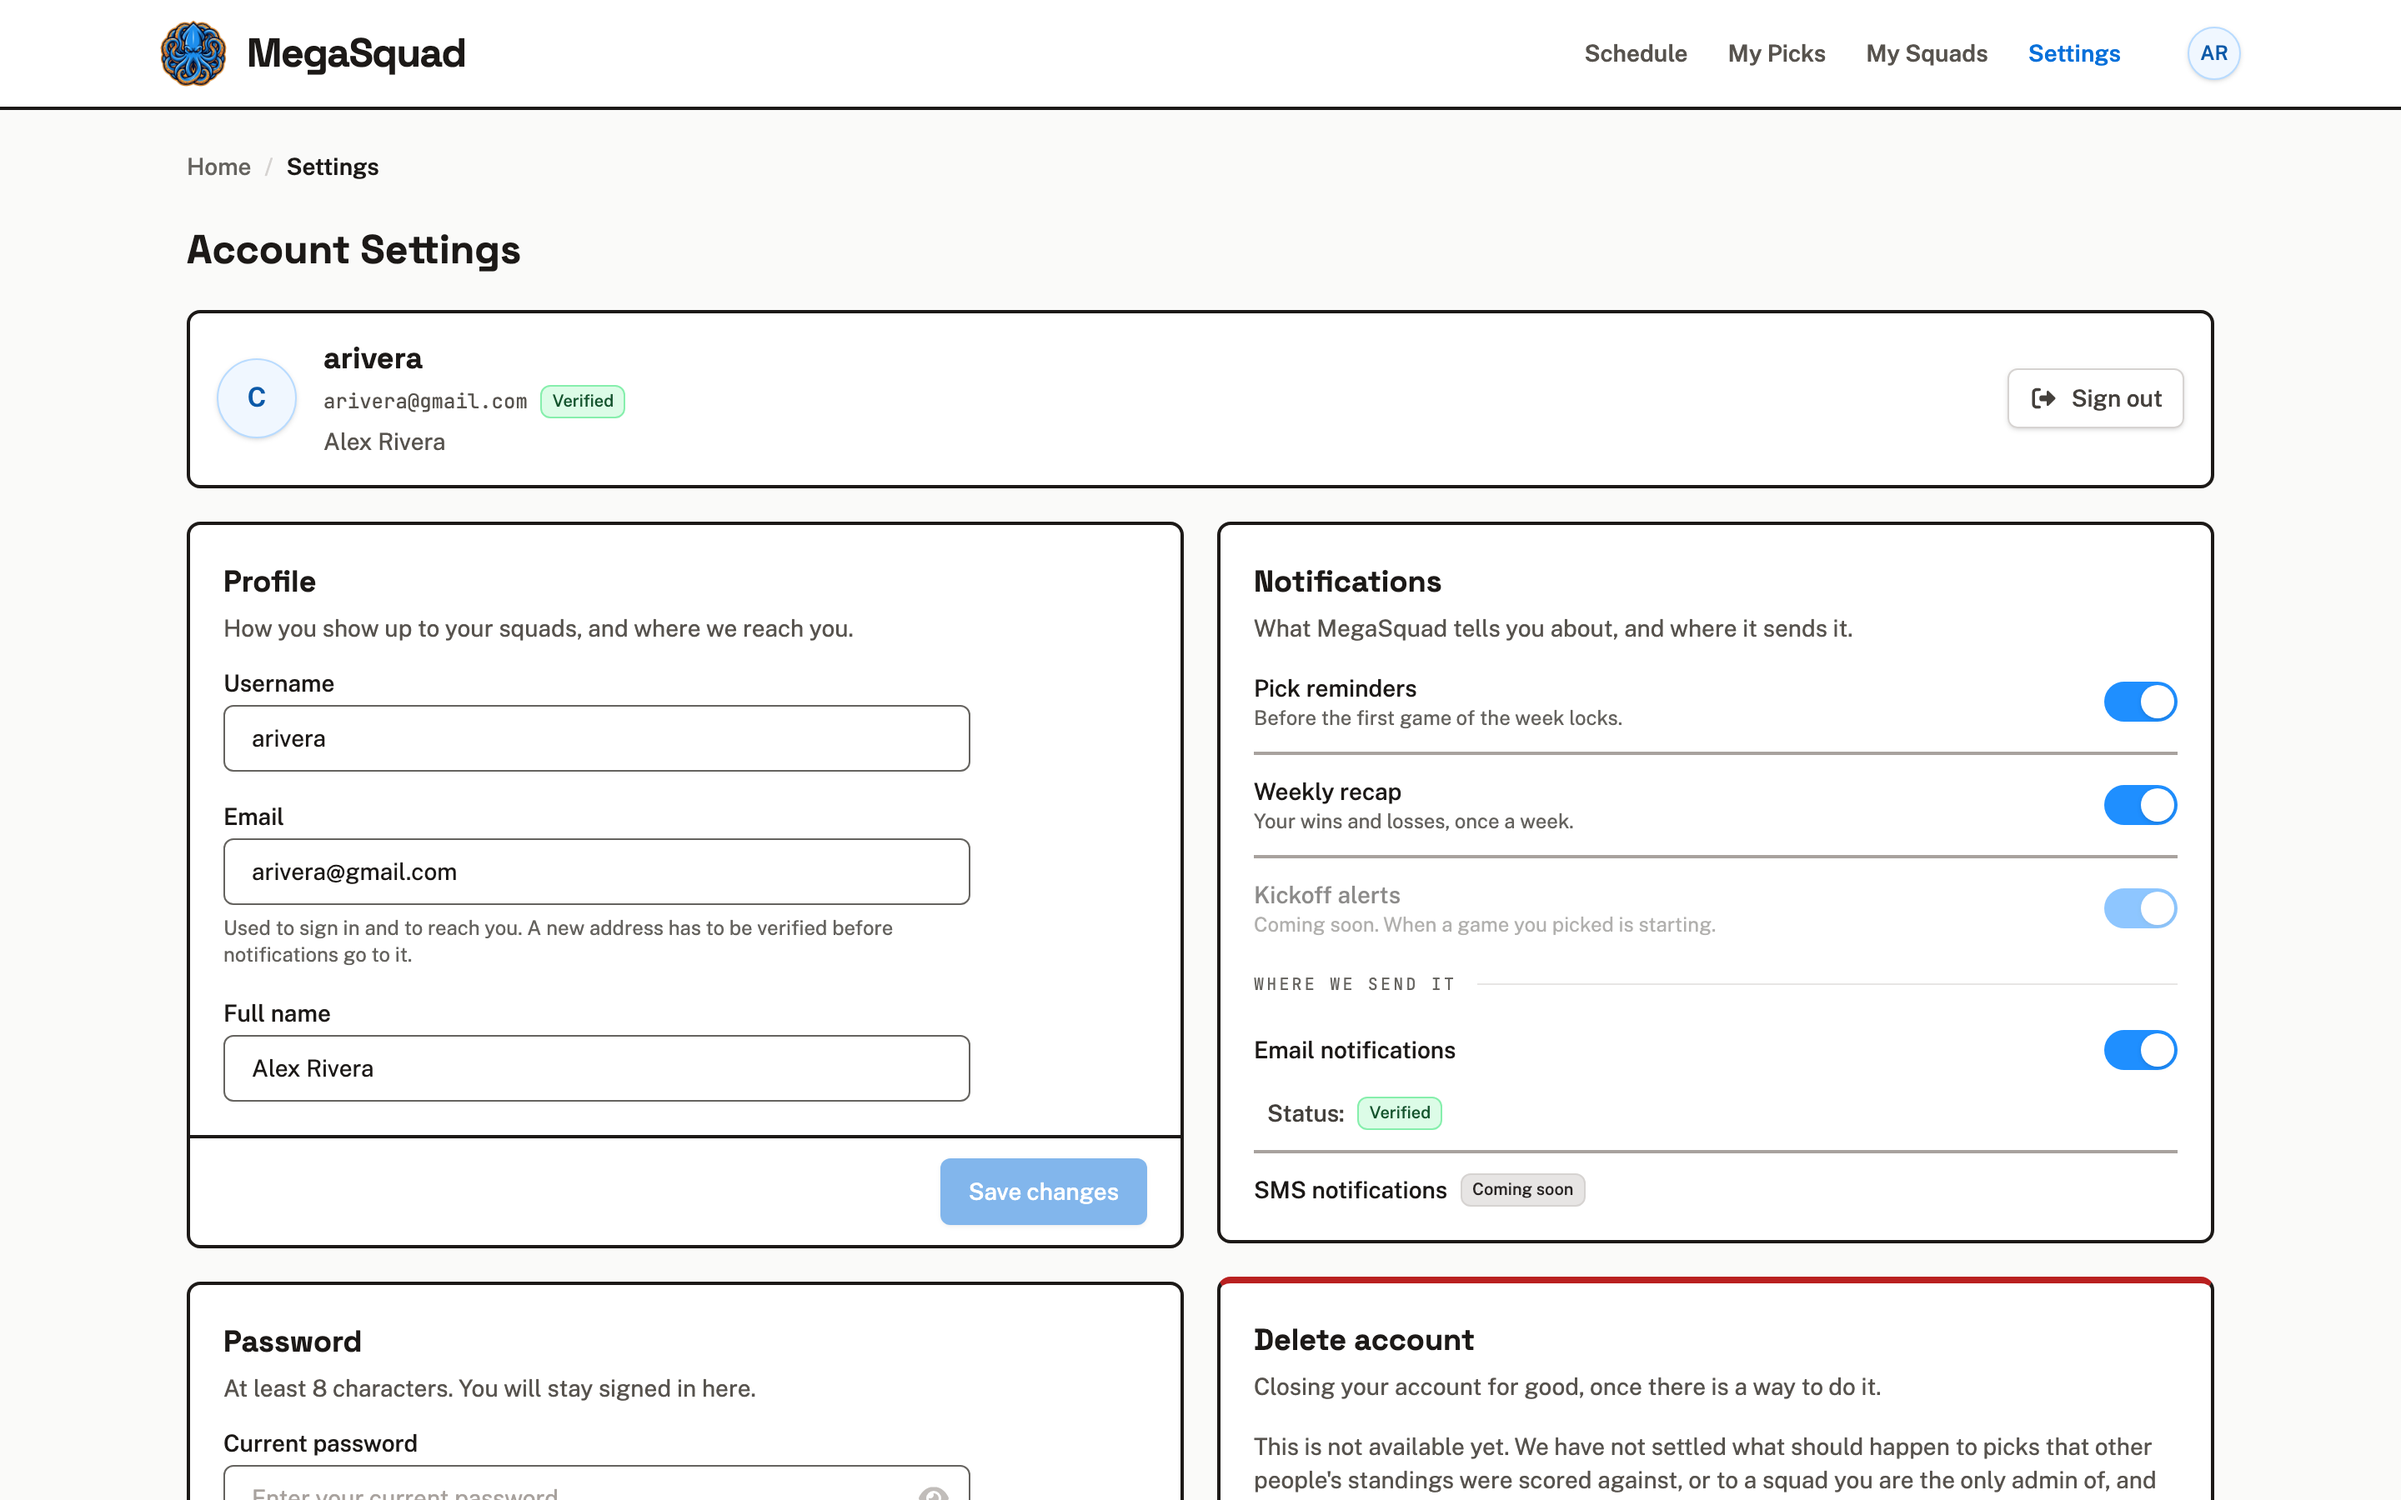
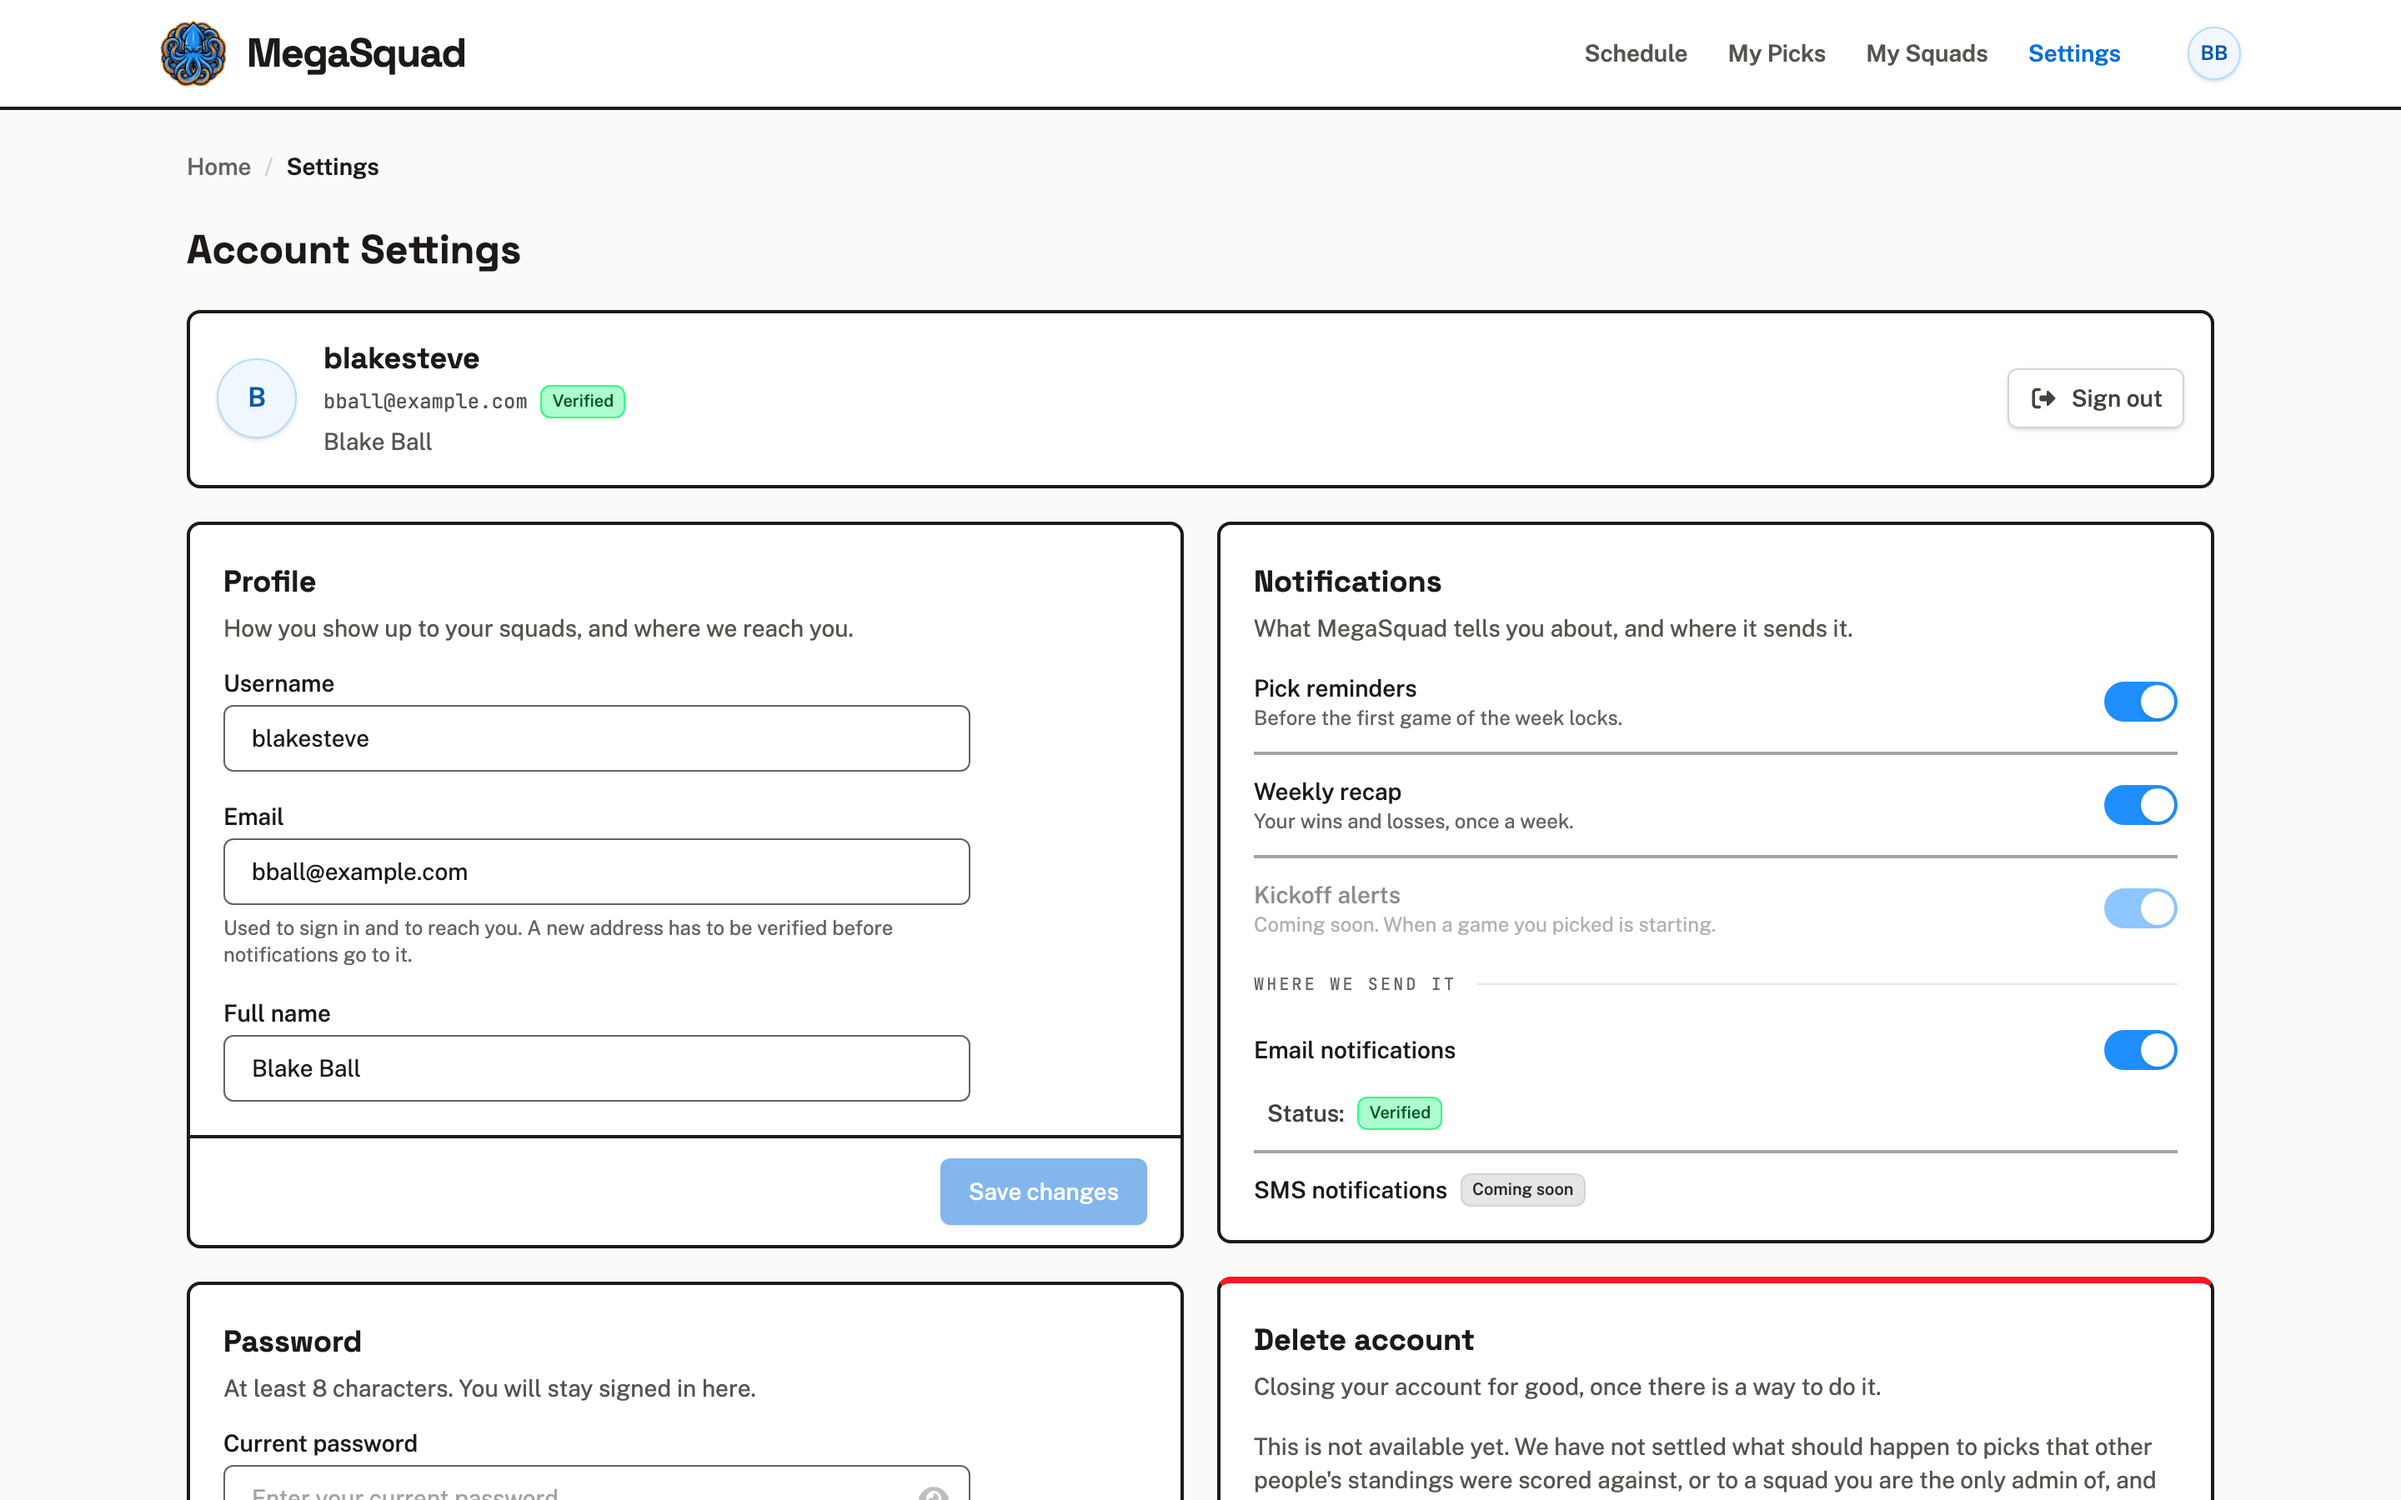
chore(megasquad): reshoot case-study frames and correct the copy

diff --git a/src/content/case-studies.tsx b/src/content/case-studies.tsx
@@ -241,13 +241,15 @@ export const caseStudies: Record<string, CaseStudy> = {
       /* Verdicts leads: games tracked is inventory that was imported, verdicts
          cast is people turning up to settle the argument, which is the whole
          premise. Both are live; the values here are only the fallback. */
-      { value: "2,563", label: "Verdicts cast", source: "12 Sept 2026 snapshot", live: "verdicts" },
-      { value: "1,751", label: "Games tracked", source: "12 Sept 2026 snapshot", live: "games" },
-      /* Counted off `origin/main`, the repo's default branch, so it matches
-         how the Roster card counts and is not skewed by whatever `dev` is
-         carrying at the time. No live path for this one: the repo is private,
-         so there is nothing for the GitHub reader to reach. */
-      { value: "962", label: "Commits", source: "12 Sept 2026 snapshot · private repo" },
+      { value: "2,590", label: "Verdicts cast", source: "14 Sept 2026 snapshot", live: "verdicts" },
+      { value: "1,757", label: "Games tracked", source: "14 Sept 2026 snapshot", live: "games" },
+      /* Counted off `origin/main`. That is NOT this repo's default branch -
+         game-verdict releases from `dev` - but `main` is its release line, so
+         this counts shipped work rather than whatever `dev` is carrying, and it
+         matches how the Roster card counts. No live path for this one: the repo
+         is private, so there is nothing for the GitHub reader to reach, which
+         makes it the only number on this card that can go stale silently. */
+      { value: "974", label: "Commits", source: "14 Sept 2026 snapshot · private repo" },
       { value: "50 KB", label: "Per browse page", source: "was 1.8 MB" },
     ],
     stack: [
@@ -635,7 +637,7 @@ export const caseStudies: Record<string, CaseStudy> = {
   },
 
   roster: {
-    lede: "The component library this site is built out of, with exactly one real customer: me. Four apps, one substrate, published to npm and versioned like the dependency it is, which turns out to be a different engineering problem than shipping one to strangers.",
+    lede: "The component library this site is built out of, with exactly one real customer: me. Six apps, one substrate, published to npm and versioned like the dependency it is, which turns out to be a different engineering problem than shipping one to strangers.",
     stats: [
       {
         value: String(getRosterComponentCount()),
@@ -646,8 +648,8 @@ export const caseStudies: Record<string, CaseStudy> = {
         /* Matches `git rev-list --count origin/main` after a fetch, which is
            the same count the GitHub API reports and the same thing the live
            path above renders. Not a local working copy, which drifts ahead.
-           Last checked 12 Sept 2026. */
-        value: "343",
+           Last checked 14 Sept 2026. */
+        value: "344",
         label: "Commits",
         source: "since Feb 2026",
         commitsFrom: "blakesteve/roster",
@@ -663,10 +665,10 @@ export const caseStudies: Record<string, CaseStudy> = {
               label: "Tests",
               source: `live · roster @ ${meta.version}`,
             }
-          : { value: "1,000", label: "Tests", source: "roster @ 4.6.1" })(
+          : { value: "1,332", label: "Tests", source: "roster @ 4.11.0" })(
         getRosterMeta(),
       ),
-      { value: "5", label: "Apps consuming it", source: "including this one" },
+      { value: "6", label: "Apps consuming it", source: "including this one" },
     ],
     stack: [
       { k: "Runtime", v: "React 19" },
@@ -1171,8 +1173,8 @@ export const caseStudies: Record<string, CaseStudy> = {
           <Shot
             press={collapsedLight}
             blueline={collapsedDark}
-            alt="A MegaSquad league page: nine members ranked by record with the viewer first at 1-0, beside a This Week panel showing two settled games and a won pick."
-            caption="Week one, live. Nine members, nothing to argue about"
+            alt="A MegaSquad league page: nine members ranked by record with the viewer first at 7-3, beside a This Week panel showing five settled games and four won picks."
+            caption="Ten games in. Nine members, and a leader"
             priority
           />
         </Section>
@@ -1197,13 +1199,13 @@ export const caseStudies: Record<string, CaseStudy> = {
           <Shot
             press={pickingLight}
             blueline={pickingDark}
-            alt="MegaSquad in picking mode: a sticky bar reading 5 of 14 with Cancel and Save Picks, a segmented progress strip above a row of team crests, and schedule cards rendered as perforated tickets with dashed tear lines and punched notches."
+            alt="MegaSquad in picking mode: a sticky bar reading 5 of 16 with Cancel and Save Picks, a segmented progress strip showing five team crests, an active slot and ten question marks, and schedule cards rendered as perforated tickets with dashed tear lines, punched notches and lock-in countdowns."
             caption="Picking: the schedule, torn into tickets"
           />
           <p>
             The bar above tracks the week without you counting: a segment per game, a crest for every
-            team you&rsquo;ve taken, a question mark for the ones you haven&rsquo;t, and a padlock for the games
-            that already locked. It scrolls horizontally on a phone rather than wrapping, so the
+            team you&rsquo;ve taken, a question mark for the ones you haven&rsquo;t, and a padlock once a game
+            locks. It scrolls horizontally on a phone rather than wrapping, so the
             week stays one line you can read at a glance.
           </p>
           <Shot
@@ -1221,19 +1223,19 @@ export const caseStudies: Record<string, CaseStudy> = {
           dek="A win-loss record tells you nothing about where it went wrong, so every row opens into the weeks, with each team you picked badged green for a win and red for a loss."
         >
           <p>
-            A record of 182&ndash;102 tells you almost nothing. The interesting question is{" "}
+            A record of 181&ndash;103 tells you almost nothing. The interesting question is{" "}
             <em>where</em> it went wrong. So standings expand into a per-week breakdown, and each
             week shows the actual team logos you picked, badged correct or incorrect.
           </p>
           <Pull cite="One season, read at a glance">
-            64.1% across 284 games. The playoffs alone go 11 of 13: Wild Card 5 of 6,
+            63.7% across 284 games. The playoffs alone go 11 of 13: Wild Card 5 of 6,
             Divisional 3 of 4, Conference 2 of 2, the Super Bowl called. Divisional is the round
             that slipped, and now it has a name.
           </Pull>
           <Shot
             press={expandedLight}
             blueline={expandedDark}
-            alt="An expanded MegaSquad standings row at 182-102 and 64.1% correct, opening into per-week results (Super Bowl 1 of 1, Conference 2 of 2, Divisional 3 of 4, Wild Card 5 of 6) with Week 18 open below them, showing sixteen team crests each outlined green for a correct pick or red for a wrong one."
+            alt="An expanded MegaSquad standings row at 181-103 and 63.7% correct, opening into per-week results (Super Bowl 1 of 1, Conference 2 of 2, Divisional 3 of 4, Wild Card 5 of 6) with Week 18 open below them, showing sixteen team crests each outlined green for a correct pick or red for a wrong one."
             caption="A season, opened week by week"
           />
           <p>

diff --git a/src/lib/projects.ts b/src/lib/projects.ts
@@ -65,7 +65,10 @@ export const projects: Project[] = [
          and 310 in its case study while the repository said 313. */
       {
         label: "Scale",
-        value: "1,718 games tracked",
+        /* Re-check this whenever the case study twin is re-checked. It is the
+           fallback for the same live figure, and unlike that one it carries no
+           date, so a stale value here asserts itself as present tense. */
+        value: "1,761 games tracked",
         accent: true,
         live: (stats) => `${stats.games?.toLocaleString("en-US")} games tracked`,
       },

diff --git a/README.md b/README.md
@@ -75,6 +75,15 @@ column shows the untouched library rather than this site's type.
 | Employment durations, years shipping | computed from dates in `lib/career.ts`, never written down |
 | Token ramps | the shipped `tokens.css` |
 | Game Verdict games and verdicts | `GET https://api.gameverdict.app/api/stats`, hourly |
+| Roster commits | the GitHub API, via `commitsFrom` on the stat |
+
+**Game Verdict's commit count is the one figure here that can not be live**,
+because that repo is private and there is nothing for the GitHub reader to
+reach. It is therefore the only number on these cards that goes stale silently,
+and it had drifted twelve commits before anyone looked. It is counted off
+`origin/main` rather than the repo's actual default branch, `dev`, so it counts
+shipped work rather than whatever is in flight. Re-check it whenever you touch
+that card.
 
 `lib/roster.ts` reads `node_modules` directly rather than resolving the module,
 because Roster's exports map does not expose `package.json` and Turbopack can't
@@ -84,6 +93,23 @@ place a CSS file in an ESM chunk.
 falls back to the written figure, relabels it as a dated snapshot instead of as
 live, and warns in the build log. A portfolio deploy should not fail because
 another app hiccuped, but it should not quietly stop updating either.
+
+## Where the case-study screenshots come from
+
+`src/images/<app>/` holds 75 frames across three apps, and until 14 Sept 2026
+exactly one app had a repeatable way to refresh them.
+
+MegaSquad's are captured by `scripts/capture-case-study.mjs` **in the mega-squad
+repo**, not here. It drives a real browser over that app's dev server and writes
+straight into `src/images/megasquad`. It does not seed demo data: it captures
+real dev-API records and aliases the people in them, which is why the case study
+shows a league nobody has heard of. Two guards refuse to write a file rather
+than warn, and both exist because an earlier version shipped a frame that broke
+them. That repo's README has the invocation.
+
+game-verdict's 26 frames and retrospect's 15 have no such script yet. They will
+go stale the same way MegaSquad's did, which is to say silently, two days after
+somebody changes a color. Generalizing that script is on the portfolio roadmap.
 
 ## Writing
 
